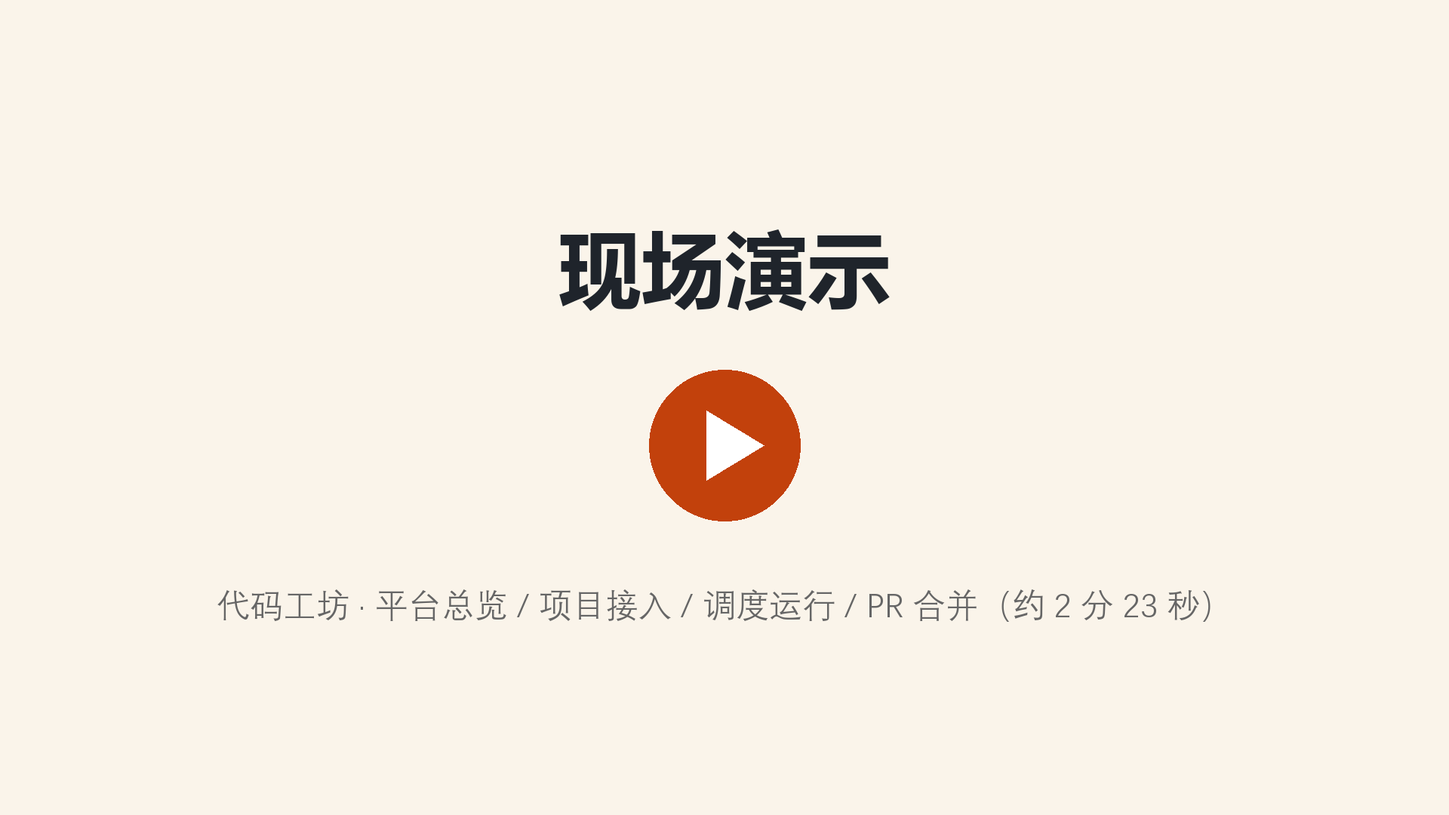
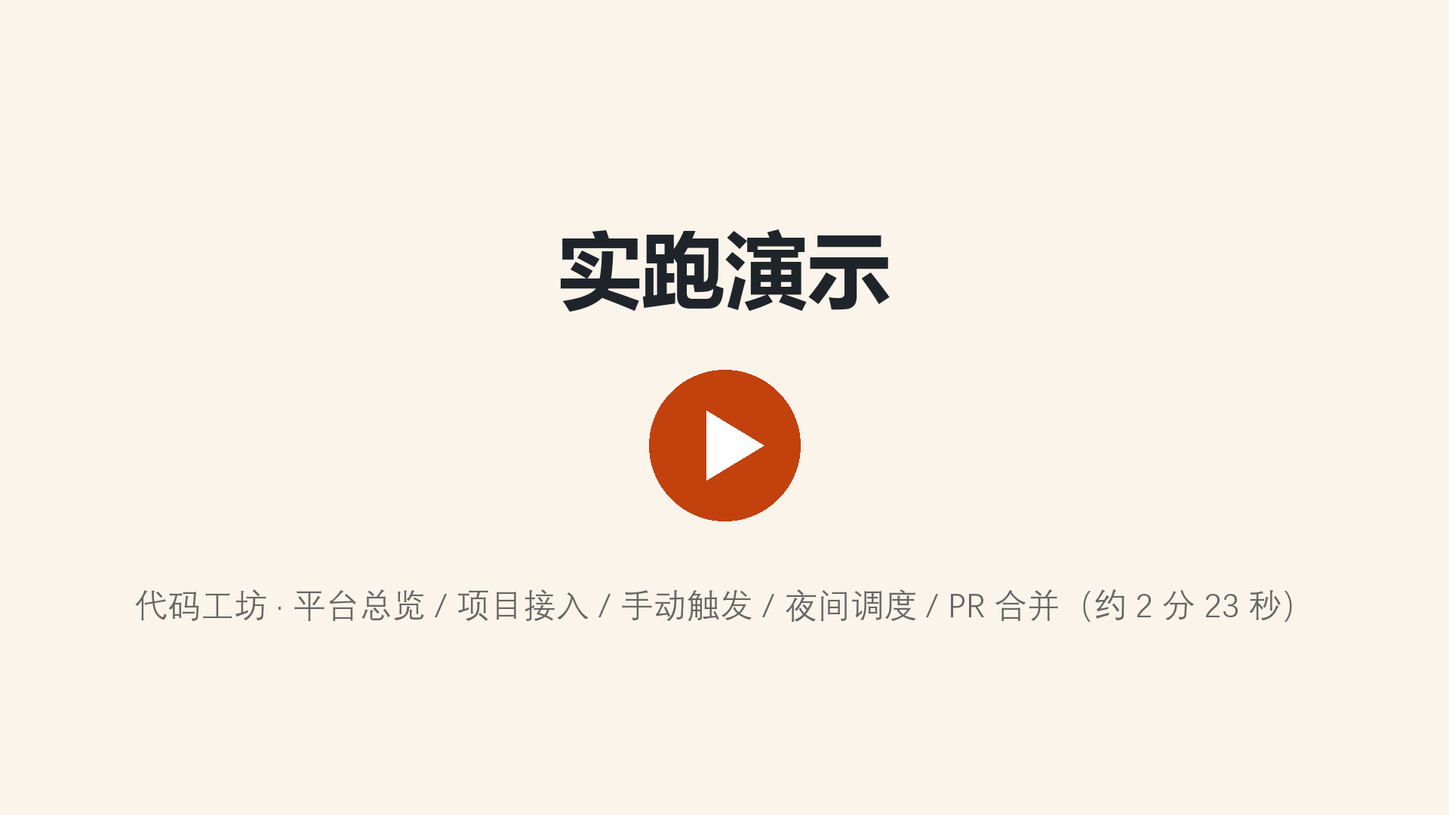
docs: 更新ppt

Changed region(s): [[0.0938, 0.7028, 0.9062, 0.7639], [0.375, 0.275, 0.5, 0.3972]]

diff --git a/docs/.dev-slides-gen.py b/docs/.dev-slides-gen.py
@@ -21,13 +21,13 @@ def make_poster():
     DFONTS = "/Applications/Microsoft PowerPoint.app/Contents/Resources/DFonts"
     f_title = ImageFont.truetype(os.path.join(DFONTS, "msyhbd.ttc"), 110)
     f_sub = ImageFont.truetype(os.path.join(DFONTS, "Deng.ttf"), 44)
-    t = "现场演示"
+    t = "实跑演示"
     bb = dr.textbbox((0, 0), t, font=f_title)
     dr.text(((W - (bb[2] - bb[0])) / 2, 280), t, font=f_title, fill=(0x1F, 0x24, 0x2B))
     cx, cy, r = W // 2, 590, 100
     dr.ellipse((cx - r, cy - r, cx + r, cy + r), fill=(0xC2, 0x41, 0x0C))
     dr.polygon([(cx - 24, cy - 46), (cx - 24, cy + 46), (cx + 52, cy)], fill=(255, 255, 255))
-    s2 = "代码工坊 · 平台总览 / 项目接入 / 调度运行 / PR 合并（约 2 分 23 秒）"
+    s2 = "代码工坊 · 平台总览 / 项目接入 / 手动触发 / 夜间调度 / PR 合并（约 2 分 23 秒）"
     bb = dr.textbbox((0, 0), s2, font=f_sub)
     dr.text(((W - (bb[2] - bb[0])) / 2, 780), s2, font=f_sub, fill=(0x66, 0x66, 0x66))
     img.save(POSTER)
@@ -174,8 +174,6 @@ add_text(s, 1.0, 1.7, 11.3, 1.9, [
 ])
 add_text(s, 1.0, 4.0, 11.3, 1.6, [
     ("晚上 AI 修代码，早上人工审 PR ——「AI 自主 + 人工门」", dict(size=17, color=DARK, space_after=8)),
-    ("夜间定时调度：扫描 → 修复 → 验证 → 提交 PR 全程无人值守；重活归 AI，裁决权在人",
-     dict(size=13, color=GRAY, space_after=0)),
 ])
 add_text(s, 1.0, 5.75, 11.3, 0.5, [
     ("汇报人：吉普    团队：赛博管道工    汇报时间：2026/10/17",
@@ -187,40 +185,44 @@ add_text(s, 1.0, 6.55, 11.3, 0.7, [
 ])
 
 # ============ S2 痛点问题 ============
-s = content_slide("痛点问题：技术债堆积 × 人力不足 × 算力错配", "01 · 为什么做")
-pains = [
-    ("技术债只增不减", "白天为赶进度只保核心业务逻辑跑通，留下一堆不影响运行、但存在隐患的技术债。", "①"),
-    ("人力无暇消化", "需求对齐、跨团队对接、联调沟通——只有人能做的事已占满人力；还债的收益体现在长期质量上、当期产出不直观。", "②"),
-    ("算力供需错配", "白天行内模型资源被人机协同任务占满，到了夜间算力又大量空转。", "③"),
+s = content_slide("痛点：技术债只增不减，为什么治不好", "01 · 为什么做")
+c = card(s, 0.55, 1.75, 4.6, 3.95, LORANGE, None)
+fill_tf(c, [
+    ("痛点", dict(size=13, bold=True, color=BLUE, space_after=6)),
+    ("技术债只增不减", dict(size=20, bold=True, color=NAVY, space_after=8)),
+    ("白天为赶进度只保核心业务逻辑跑通，留下一堆不影响运行、但存在隐患的技术债。",
+     dict(size=13.5, color=DARK, line_spacing=1.3, space_after=0)),
+], margin=0.3)
+add_text(s, 5.45, 1.45, 7.3, 0.4, [
+    ("为什么只增不减？卡在两个原因上", dict(size=14, bold=True, color=NAVY, space_after=0)),
+])
+reasons = [
+    ("原因一 · 人力无暇消化",
+     "需求对齐、跨团队对接、联调沟通——只有人能做的事已占满人力；同样工时投业务需求产出明确，投在还技术债上短期产出不直观。"),
+    ("原因二 · 算力供需错配",
+     "白天行内模型资源被人机协同任务占满，到了夜间算力又大量空转，能用来还技术债的算力没有被利用。"),
 ]
-for i, (t, d, n) in enumerate(pains):
-    x = 0.55 + i * 4.18
-    c = card(s, x, 1.75, 3.9, 3.6, WHITE)
+for i, (t, d) in enumerate(reasons):
+    c = card(s, 5.45, 1.95 + i * 1.98, 7.33, 1.83, WHITE)
     fill_tf(c, [
-        (n, dict(size=26, bold=True, color=ORANGE, space_after=6)),
-        (t, dict(size=18, bold=True, color=NAVY, space_after=8)),
-        (d, dict(size=13.5, color=DARK, line_spacing=1.25, space_after=0)),
-    ], margin=0.28)
-add_text(s, 0.55, 5.7, 12.2, 1.2, [
-    ("债在增、人在忙、算力在空转——三件事叠加，技术债只进不出。",
-     dict(size=15, bold=True, color=NAVY, align=PP_ALIGN.CENTER, space_after=0)),
-], anchor=MSO_ANCHOR.MIDDLE)
+        (t, dict(size=15, bold=True, color=NAVY, space_after=4)),
+        (d, dict(size=12.5, color=DARK, line_spacing=1.22, space_after=0)),
+    ], margin=0.22)
 
 # ============ S3 解决思路 ============
 s = content_slide("解决思路：晚上 AI 修问题 + 早上人工审 PR", "02 · 怎么做")
 c = card(s, 0.55, 1.7, 6.0, 3.5, LBLUE, None)
 fill_tf(c, [
     ("🌙 晚上 · AI 修问题", dict(size=19, bold=True, color=NAVY, space_after=8)),
-    ("夜间定时调度拉起流水线", dict(size=14, bold=True, color=BLUE, space_after=4)),
-    ("扫描 → 修复 → 验证 → 提交 PR", dict(size=14, color=DARK, space_after=4)),
-    ("全程无人值守 —— 重活归 AI", dict(size=14, color=DARK, space_after=0)),
+    ("夜间平台定时调度自动拉起流水线", dict(size=14, bold=True, color=BLUE, space_after=4)),
+    ("逐步执行扫描、修复、验证、提交 PR", dict(size=14, color=DARK, space_after=4)),
+    ("全程无人值守，重活归 AI", dict(size=14, color=DARK, space_after=0)),
 ], margin=0.3)
 c = card(s, 6.78, 1.7, 6.0, 3.5, LORANGE, None)
 fill_tf(c, [
     ("☀ 早上 · 人工审 PR", dict(size=19, bold=True, color=NAVY, space_after=8)),
-    ("开发人员上班第一件事评审 PR", dict(size=14, bold=True, color=ORANGE, space_after=4)),
-    ("决定是否合并 —— 裁决权在人", dict(size=14, color=DARK, space_after=4)),
-    ("AI 没有主干写权限", dict(size=14, color=DARK, space_after=0)),
+    ("开发人员评审 PR、决定合不合并", dict(size=14, bold=True, color=ORANGE, space_after=4)),
+    ("裁决权在人，AI 没有主干写权限", dict(size=14, color=DARK, space_after=0)),
 ], margin=0.3)
 bar = card(s, 0.55, 5.55, 12.23, 1.0, LORANGE, None)
 fill_tf(bar, [
@@ -228,8 +230,8 @@ fill_tf(bar, [
      dict(size=14.5, bold=True, color=INK, align=PP_ALIGN.CENTER, space_after=0)),
 ], anchor=MSO_ANCHOR.MIDDLE, margin=0.2)
 
-# ============ S-demo 现场演示（嵌入视频） ============
-s = content_slide("现场演示：平台总览 → 项目接入 → 调度运行 → PR 合并", "02 · 怎么做 · 演示")
+# ============ S-demo 实跑演示（嵌入视频） ============
+s = content_slide("实跑演示：平台总览 → 项目接入 → 手动触发 → 夜间调度 → PR 合并", "02 · 怎么做 · 演示")
 mv_w = 9.42
 mv_h = mv_w * 9 / 16  # ≈ 5.30，与视频 1920x1080 同比例
 s.shapes.add_movie(f"{DOCS}/dev-demo.mp4", Inches((13.333 - mv_w) / 2), Inches(1.5),
@@ -241,12 +243,12 @@ s = content_slide("核心流程：扫描 → 修复 → 验证 → 提交", "03 
 steps = [
     ("双通道扫描", "规则引擎 + 语义理解\n问题统一模型落库", LORANGE, INK),
     ("AI 修复", "统一 prompt 模板\nMCP 边修边查", LORANGE, INK),
-    ("两道防线验证", "客观重扫比对\n+ AI 语义评审", LORANGE, INK),
+    ("两道验证", "客观重扫比对\n+ AI 语义评审", LORANGE, INK),
     ("提交 PR", "结构化修复报告\n一轮一 PR", BLUE, WHITE),
 ]
 for i, (t, d, color, tc) in enumerate(steps):
     x = 0.55 + i * 3.22
-    shp = s.shapes.add_shape(MSO_SHAPE.CHEVRON, Inches(x), Inches(1.8), Inches(3.0), Inches(2.2))
+    shp = s.shapes.add_shape(MSO_SHAPE.CHEVRON, Inches(x), Inches(2.55), Inches(3.0), Inches(2.5))
     shp.adjustments[0] = 0.28
     shp.fill.solid()
     shp.fill.fore_color.rgb = color
@@ -257,17 +259,9 @@ for i, (t, d, color, tc) in enumerate(steps):
         shp.line.fill.background()
     shp.shadow.inherit = False
     fill_tf(shp, [
-        (t, dict(size=16, bold=True, color=tc, align=PP_ALIGN.CENTER, space_after=6)),
-        *[(seg, dict(size=12, color=tc, align=PP_ALIGN.CENTER, space_after=2)) for seg in d.split("\n")],
+        (t, dict(size=18, bold=True, color=tc, align=PP_ALIGN.CENTER, space_after=8)),
+        *[(seg, dict(size=13, color=tc, align=PP_ALIGN.CENTER, space_after=2)) for seg in d.split("\n")],
     ], anchor=MSO_ANCHOR.MIDDLE, margin=0.1)
-notes = [
-    "双通道：SonarQube 抓「规则写得出来的」，Claude Code 抓「要读懂代码才知道的」",
-    "修复：统一 prompt 驱动；MCP 边修边查，不引入新问题；产出克制，不误导验证环节",
-    "验证两道都过才算通过；任一失败整轮回退重试",
-    "修复必须串行：每修一个 issue 代码基线变一次，一轮 run 只产出一个 PR",
-]
-add_text(s, 0.9, 4.5, 11.6, 2.2,
-         [("· " + n, dict(size=14, color=DARK, space_after=10, line_spacing=1.2)) for n in notes])
 
 # ============ S5 双通道扫描 ============
 s = content_slide("双通道扫描：规则引擎 + 语义理解", "03 · 核心流程 · 扫描")
@@ -323,7 +317,7 @@ fill_tf(bar, [
 s = content_slide("两道防线验证：客观门禁 + 语义评审", "03 · 核心流程 · 验证")
 c = card(s, 0.55, 1.65, 6.0, 3.5, WHITE)
 fill_tf(c, [
-    ("防线一 · SonarQube 重扫", dict(size=17, bold=True, color=BLUE, space_after=6)),
+    ("防线一 · 规则引擎重扫", dict(size=17, bold=True, color=BLUE, space_after=6)),
     ("原来报的问题都消了吗？有没有引入新问题？", dict(size=13.5, bold=True, color=NAVY, space_after=8)),
     ("修复完成后重新扫描、逐条比对", dict(size=13.5, space_after=4)),
     ("本轮修的问题必须全部关闭", dict(size=13.5, space_after=4)),
@@ -516,7 +510,7 @@ rows = [
     ("产品定位", "per-issue 辅助：生成建议、人手动 apply，不 commit 不开 PR", "逐条 suggestion；agentic 模式自主修复开 PR（公测中）", "平台级流水线：扫描→修复→验证→提交全自动"),
     ("部署方式", "自托管需 Enterprise 付费版 + 自建 LLM 网关", "只在 GitHub 云上运行，进不了银行内网", "内网私有化部署，模型可插拔（国产/行内模型）"),
     ("调度方式", "无调度", "逐条指派", "夜间定时、多仓库、并发槽排队分发，无人值守"),
-    ("验证深度", "无验证闭环", "仅重跑 CodeQL 一道门禁", "SonarQube 重扫门禁 + 独立语义评审两道防线，失败整轮回退"),
+    ("验证深度", "无验证闭环", "仅重跑 CodeQL 一道门禁", "规则引擎重扫门禁 + 独立语义评审两道防线，失败整轮回退"),
     ("扫描通道", "SonarQube 规则", "CodeQL 规则", "规则引擎 + 语义理解双通道，覆盖竞态、N+1、上帝类等规则外问题"),
 ]
 tw, th = 12.23, 4.35
@@ -556,7 +550,7 @@ for ri, row in enumerate(rows):
         else:
             style_run(r, 10.5, False, DARK)
 add_text(s, 0.55, 6.5, 12.2, 0.5, [
-    ("一句话：单点修复能力大家都会有，立足点在于能否部署进你的环境、以无人值守的方式跑完整条流水线。",
+    ("单点修复能力大家都会有，差异在于能否部署进内网环境、以无人值守的方式跑完整条流水线。",
      dict(size=13.5, bold=True, color=NAVY, align=PP_ALIGN.CENTER, space_after=0)),
 ])
 
@@ -565,7 +559,7 @@ s = content_slide("项目价值与未来规划", "10 · 价值")
 c = card(s, 0.55, 1.6, 6.0, 4.95, LBLUE, None)
 vals = [
     ("自动化闭环，解放人力", "扫描 → 修复 → 验证转化为后台无感进程"),
-    ("专注业务，治理技术债", "AI 后台治债，开发人员聚焦核心业务研发"),
+    ("专注业务，治理技术债", "AI 后台治债，开发人员聚焦业务研发"),
     ("极低成本，极致利用", "充分利用行内既有闲时算力，几乎不新增硬件成本"),
     ("严控风险，守住合规底线", "绝不赋予 AI 生产发布或主干合并权限"),
     ("渐进式演进，远景可期", "架构可扩展，条件成熟时可接入完整研发流水线"),
@@ -606,41 +600,41 @@ add_text(s, 0, 4.6, 13.333, 1.2, [
 # ============ 演讲者备注（演示者视图用） ============
 NOTES = [
     # P1 封面（15 秒）
-    "【15秒】各位评委，大家好。我是吉普，来自赛博管道工团队。今天汇报的作品是代码工坊——一套 AI 自动值守的代码质量优化流水线。一句话概括功能：晚上 AI 修代码，早上人工审 PR。【翻页】",
+    "【15秒】各位评委，大家好。我是吉普，来自赛博管道工团队。今天汇报的作品是代码工坊，一套 AI 自动值守的代码质量优化流水线。【翻页】",
     # P2 痛点（45 秒）
-    "【45秒】先说三个痛点。第一，技术债只增不减：白天赶进度只保核心业务跑通，留下的都是隐患。第二，人力无暇消化：需求对齐、跨团队对接、联调沟通，这些只有人能做的事已经占满人力；同样工时投业务需求产出明确，投还债则体现在长期质量上、当期不直观。第三，算力供需错配：白天模型资源被占满，夜间大量空转。债在增、人在忙、算力在空转——三件事叠加，技术债只进不出。【翻页】",
+    "【45秒】先讲为什么做这个平台。我们日常开发中有一个痛点问题：白天为了赶进度只能保证核心业务逻辑跑通，留下一堆不影响运行、但存在隐患的技术债。主要是两方面原因，一是人力无暇消化：需求对齐、跨团队对接、联调沟通，这些只有人能做的事已经占满人力；同样工时投业务需求产出明确，投在还技术债上短期产出不直观。二是算力供需错配：白天模型资源被占满，夜间又大量空转，能用来还债的算力没有被利用。【翻页】",
     # P3 解决思路（40 秒）
-    "【40秒】解法就两句话：晚上 AI 修问题，早上人工审 PR。夜间定时调度自动拉起流水线，扫描、修复、验证、提交 PR，全程无人值守——重活归 AI；早上开发人员第一件事是评审 PR、决定合不合并——裁决权在人，AI 没有主干写权限。整个过程利用夜间闲时算力，几乎不新增硬件成本。【翻页，视频自动播放】",
+    "【40秒】针对这两个原因，我们的解决思路是：搭建一个平台夜间定时调度自动拉起流水线，逐步执行扫描、修复、验证、提交 PR，全程无人值守，重活归 AI；早上开发人员评审 PR、决定合不合并，AI 没有主干写权限。整个过程利用夜间闲时算力，几乎不新增硬件成本。【翻页】",
     # P4 演示（视频 2 分 23 秒）
-    "【开场白10秒】接下来请大家看一段两分半的实跑演示：从平台总览、项目接入，到调度运行和 PR 合并。【播放期间安静站侧位，不用讲解。播完补一句再翻页：】这是平台真实跑起来的完整一轮，后面的设计细节我展开讲。【翻页】",
+    "【开场白10秒】接下来请大家看一段实跑演示：【播放期间安静站侧位，不用讲解。播完补一句再翻页：】下面我来展开讲一下实现细节。【翻页】",
     # P5 流程总览（30 秒）
-    "【30秒】整条流水线四步：双通道扫描、AI 修复、两道防线验证、提交 PR。扫描是规则和语义互补；修复用统一 prompt 驱动、MCP 边修边查不引入新问题，产出克制不误导验证；验证两道都过才算通过，失败整轮重来；提交严格串行，一轮 run 只产出一个 PR。【翻页】",
+    "【15秒】核心流程一共四步：双通道扫描、AI 修复、两道验证、提交 PR。【翻页】",
     # P6 双通道扫描（30 秒）
-    "【30秒】扫描分两个通道。规则引擎用 SonarQube，抓空指针、SQL 注入这类「规则写得出来」的问题，每条 issue 自带规则文档，直接成为修复环节的诊断上下文。语义理解用 Claude Code，抓上帝类、竞态条件、N+1 查询这类「要读懂代码才知道」的问题。两个通道合并为统一模型落库，走同一套修复与验证流程。【翻页】",
+    "【30秒】先从扫描讲起，它分两个通道。规则引擎用 SonarQube，抓空指针、SQL 注入这类「规则写得出来」的问题，每条 issue 自带规则文档，直接成为修复环节的诊断上下文。语义理解用 Claude Code，抓上帝类、竞态条件、N+1 查询这类「要读懂代码才知道」的问题。两个通道合并为统一模型落库，走同一套修复与验证流程。【翻页】",
     # P7 AI 修复（30 秒）
-    "【30秒】修复环节三个要点：所有 issue 共用一个 prompt 模板；修复过程中用 SonarQube MCP 逐个文件检查，有新问题就继续修，直到干净，Maven 项目还必须编译通过；产出很克制——commit message 只有一句话总结加修复思路，不让 AI 自述验证、自评风险，那是下一环节的事。【翻页】",
-    # P8 两道防线（30 秒）
-    "【30秒】验证设两道防线。第一道，SonarQube 重扫：原来报的问题必须全部关闭，多出一个新问题整轮失败。第二道，AI 语义评审：不给 diff，直接读修复后的代码，判断修复思路对不对、代码真的按思路改到位了吗。只有重扫防不住改错方向，只有评审防不住悄悄冒出的新问题——宁可整轮重修，也不放行可疑修复。【翻页】",
+    "【30秒】扫描发现的问题带着诊断信息入库，接下来交给修复。修复环节三个要点：所有 issue 共用一个 prompt 模板；修复过程中用 SonarQube MCP 逐个文件检查，有新问题就继续修，直到干净，Maven 项目还必须编译通过；产出很克制，commit message 只有一句话总结加修复思路，不让 AI 自述验证、自评风险，那是下一环节的事。【翻页】",
+    # P8 两道验证（30 秒）
+    "【30秒】修复完成后进入验证环节，这里设了两道防线。第一道，规则引擎重扫：原来报的问题必须全部关闭，多出一个新问题整轮失败。第二道，AI 语义评审：不给 diff，直接读修复后的代码，判断修复思路对不对、代码真的按思路改到位了吗。只有重扫防不住改错方向，只有评审防不住悄悄冒出的新问题，所以宁可整轮重修，也不放行可疑修复。【翻页】",
     # P9 提交 PR（25 秒）
-    "【25秒】验证通过后推送分支、创建 PR。PR 本身就是一份可以直接评审的修复报告：每条问题有标题、三维严重度、代码片段链接和修改记录链接，评审者不用打开 SonarQube。修复必须串行——每修一个 issue，代码基线就变一次，一轮只产出一个 PR，避免并行修复互相冲突。【翻页】",
+    "【25秒】两道防线都过了，就推送分支、创建 PR。PR 本身就是一份可以直接评审的修复报告：每条问题有标题、三维严重度、代码片段链接和修改记录链接，评审者不用打开 SonarQube。修复必须串行，因为每修一个 issue，代码基线就变一次，一轮只产出一个 PR，避免并行修复互相冲突。【翻页】",
     # P10 状态机（25 秒）
-    "【25秒】无人值守能跑稳，靠的是一台 18 态状态机：每两个状态构成一个执行阶段，阶段间自动接力。没动代码的环节原地重试；动了代码的先回滚到修复前现场再重试，重试耗尽才判失败。状态、动作、触发、转移四要素分离，没有嵌套、没有隐式行为。【翻页】",
+    "【25秒】流程讲完了。它是夜里无人值守跑的，稳定性靠的是一台 18 态状态机：每两个状态构成一个执行阶段，阶段间自动接力。没动代码的环节原地重试；动了代码的先回滚到修复前现场再重试，重试耗尽才判失败。状态、动作、触发、转移四要素分离，没有嵌套、没有隐式行为。【翻页】",
     # P11 回退与兜底（20 秒）
-    "【20秒】可靠性还有几层兜底：任一环节失败，整轮回退到干净基线全部重修；每轮修复数量可配置，控制回退牵连面；卡死超时强制清理，夜间的活不过夜；后端重启后，执行中的任务逐个接回状态机，不丢任务。【翻页】",
+    "【20秒】状态机之外，可靠性还有几层兜底：任一环节失败，整轮回退到干净基线全部重修；每轮修复数量可配置，控制回退牵连面；卡死超时强制清理，夜间的活不过夜；后端重启后，执行中的任务逐个接回状态机，不丢任务。【翻页】",
     # P12 架构（20 秒）
-    "【20秒】架构上，自研的重心在指挥、不在执行：动作何时触发、失败怎么重试回退、凭证怎么注入、结果怎么统计，全由自研后端掌控；执行交给 Git、Sonar Scanner、Claude Code 这些成熟工具；前端把每轮任务状态实时可视化。【翻页】",
+    "【20秒】这些能力都落在整体架构上。自研的重心在指挥、不在执行。动作何时触发、失败怎么重试回退、凭证怎么注入、结果怎么统计，全由自研后端掌控；执行交给 Git、Sonar Scanner、Claude Code 这些成熟工具；前端把每轮任务状态实时可视化。【翻页】",
     # P13 安全（30 秒）
-    "【30秒】安全是这条流水线的底线，核心一句话：能改仓库代码的凭证，绝不进 AI 容器。三条防线逐层收紧——凭证隔离，Git 凭证只留后端，用时注入、用完即毁；最小权限，admin token 运行全程不出现，bot token 按仓库收放；凭证脱敏，不进日志、不落库。再加上身份分离，任一身份出问题，爆炸半径都被限制在自己的职责内。【翻页】",
+    "【30秒】AI 能改代码，安全是这条流水线的底线。原则是：能改仓库代码的凭证，不进 AI 容器。三条防线逐层收紧：凭证隔离，Git 凭证只留后端，用时注入、用完即毁；最小权限，admin token 运行全程不出现，bot token 按仓库收放；凭证脱敏，不进日志、不落库。再加上身份分离，任一身份出问题，爆炸半径都被限制在自己的职责内。【翻页】",
     # P14 KPI（20 秒）
-    "【20秒】平台运营看五个指标：接入仓库看规模，并发任务看实时水位，累计交付修复看产出，PR 合并率看质量，累计节约人天看价值——一条链路看清平台值不值。【翻页】",
+    "【20秒】平台跑起来之后，用五个指标衡量运营效果：接入仓库看规模，并发任务看实时水位，累计交付修复看产出，PR 合并率看质量，累计节约人天看价值，五个指标对应五个维度。【翻页】",
     # P15 开发过程（20 秒）
-    "【20秒】开发过程本身也是人机协作：不可外包的判断人把住，可快速修正的表达交给 AI——状态机、安全模型、数据一致性人握住，前端布局和样式交给 AI。后端分四步走：先跑通基础状态机，再定重试与回退环，按依赖顺序填真实动作，最后 PR 反馈独立成环。【翻页】",
-    # P16 对标（35 秒）
-    "【35秒】可能有领导会问：SonarQube 有 AI CodeFix，GitHub 有 Copilot Autofix，为什么自研？大厂也在做，恰恰说明需求真实。差异在以下几个维度：它们是单点辅助或云端服务，进不了银行内网；我们是平台级流水线，内网私有化部署、模型可插拔；调度上我们夜间定时、多仓库、无人值守；验证上我们两道防线加整轮回退；扫描上多一条语义理解通道。一句话：立足点是能不能部署进你的环境、以无人值守的方式跑完整条流水线。【翻页】",
+    "【20秒】作品本身介绍完了，再说说它是怎么被开发出来的。开发过程本身也是人机协作：不可外包的判断人把住，可快速修正的表达交给 AI。状态机、安全模型、数据一致性人握住，前端布局和样式交给 AI。后端分四步走：先跑通基础状态机，再定重试与回退环，按依赖顺序填真实动作，最后 PR 反馈独立成环。【翻页】",
+    # P16 对标（25 秒）
+    "【25秒】这里也回应一个大家可能会想到的问题：SonarQube 有 AI CodeFix，GitHub 有 Copilot Autofix，为什么还要自研？大厂也在做，恰恰说明需求真实。差异在部署、调度、验证、扫描四个维度，都列在这张表里。核心是我们能进内网，能以无人值守的方式跑完整条流水线。【翻页】",
     # P17 价值与规划（20 秒）
     "【20秒】最后总结价值：自动化闭环解放人力；AI 后台治债，人聚焦核心业务研发；利用闲时算力，几乎不新增硬件成本；绝不赋予 AI 生产发布或主干合并权限，风险可控。未来还有缺陷分析反哺培训、GitLab 适配等规划，条件成熟再启动。【翻页】",
     # P18 致谢（8 秒）
-    "【8秒】我的汇报到此结束。演示环境已经开放，欢迎各位领导登录体验。谢谢聆听，恳请各位评委批评指正。",
+    "【8秒】我的汇报到此结束。恳请各位评委批评指正。",
 ]
 assert len(NOTES) == len(prs.slides._sldIdLst), "备注条数与页数不一致"
 for slide, note in zip(prs.slides, NOTES):

diff --git a/docs/dev-report.md b/docs/dev-report.md
@@ -3,7 +3,7 @@
 > 晚上 AI 修代码，早上人工审 PR ——「AI 自主 + 人工门」
 > 演示环境：[https://morningstar369.com/dev/about](https://morningstar369.com/dev/about)（账号：SpiderMan / xxxxxxxx）
 
-**代码工坊**是一个 **AI 自动值守的代码质量优化流水线**，瞄准“技术债只增不减、人力无暇消化、夜间算力空转”的痛点问题：夜间定时调度，AI 在沙盒中自动完成扫描 → 修复 → 验证 → 提交 PR；早上开发人员只需评审 PR、决定是否合并——重活归 AI，裁决权在人。
+**代码工坊**是一个 **AI 自动值守的代码质量优化流水线**，瞄准“技术债只增不减”的痛点；在夜间通过定时调度，让 AI 在沙盒中自动完成扫描 → 修复 → 验证 → 提交 PR；早上开发人员只需评审 PR、决定是否合并——重活归 AI，裁决权在人。
 
 平台采用 SonarQube 规则引擎与 Claude 语义理解双通道扫描，修复后经“客观重扫比对 + AI 语义评审”两道防线验证。宁可整轮重修，也不放行可疑修复。全流程由 18 态状态机驱动，具备重试、回退、卡死清理与重启恢复能力，保障夜间无人值守稳定运行。安全上，能改仓库代码的凭证绝不进入 AI 容器，配合最小权限与凭证脱敏，把风险限制在最小范围。
 
@@ -14,11 +14,14 @@
 
 ## 一、痛点问题与解决思路
 
-### （一）痛点问题：技术债堆积 × 人力不足 × 算力错配
+### （一）痛点问题：技术债只增不减，为什么治不好
 
-1. **技术债只增不减**：白天为赶进度，开发人员只保核心业务逻辑跑通，留下一堆不影响运行、但存在隐患的技术债。
-2. **人力无暇消化**：需求对齐、跨团队对接、联调沟通——这些只有人能做的事已占满人力；技术债单个不难治理，但同样的工时投给业务需求产出明确，投给还债则体现在长期质量上、当期产出不直观。
-3. **算力供需错配**：白天行内模型资源被人机协同任务占满；到了夜间算力又大量空转。
+白天为赶进度，开发人员只保核心业务逻辑跑通，留下一堆不影响运行、但存在隐患的技术债。
+
+债务只进不出，卡在两个原因上：
+
+1. **人力无暇消化**：需求对齐、跨团队对接、联调沟通——这些只有人能做的事已占满人力；技术债单个不难治理，但同样的工时投给业务需求产出明确，投给还债则体现在长期质量上、当期产出不直观。
+2. **算力供需错配**：白天行内模型资源被人机协同任务占满；到了夜间算力又大量空转。
 
 ### （二）解决思路：晚上 AI 修问题 + 早上人工审 PR
 
